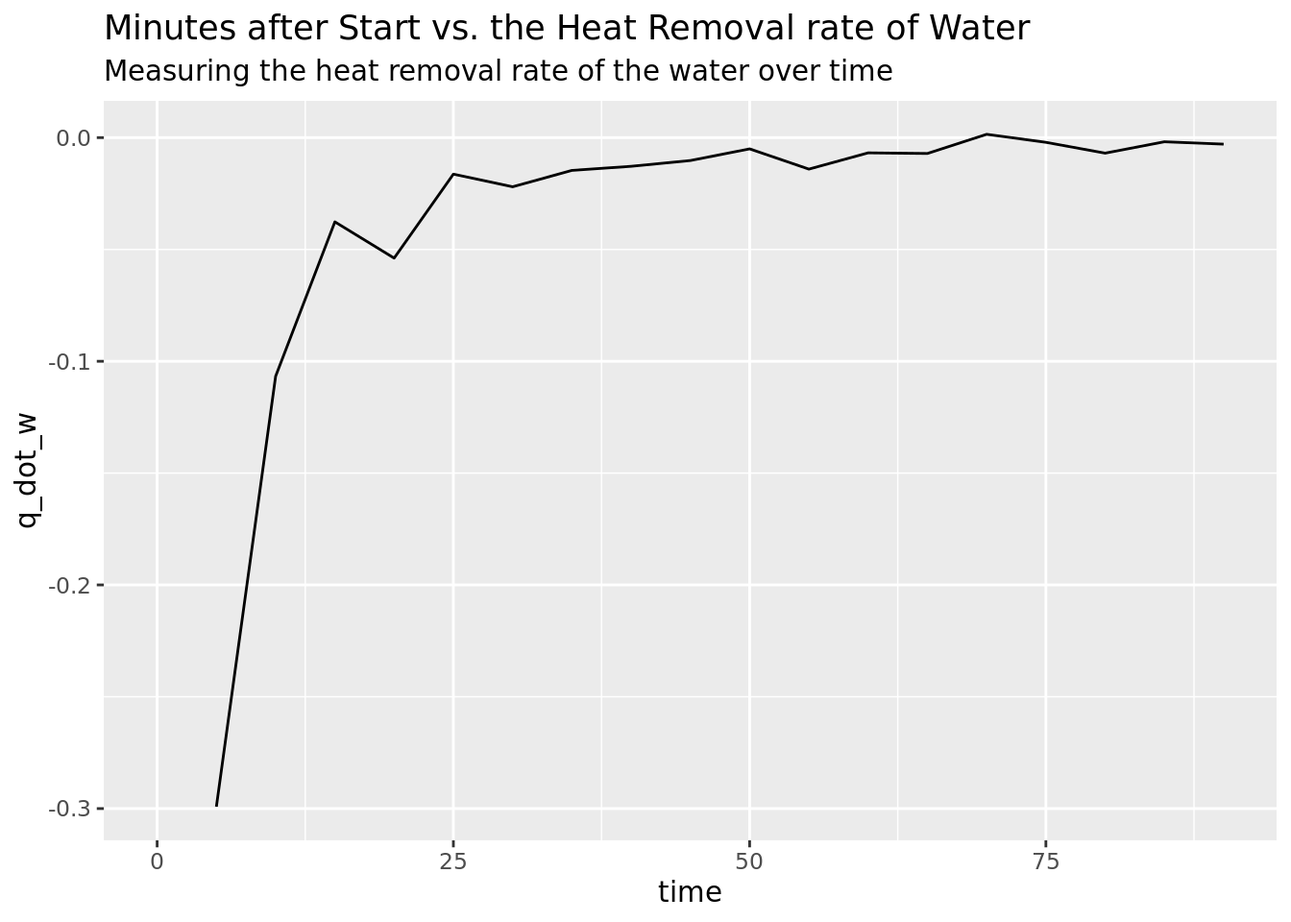
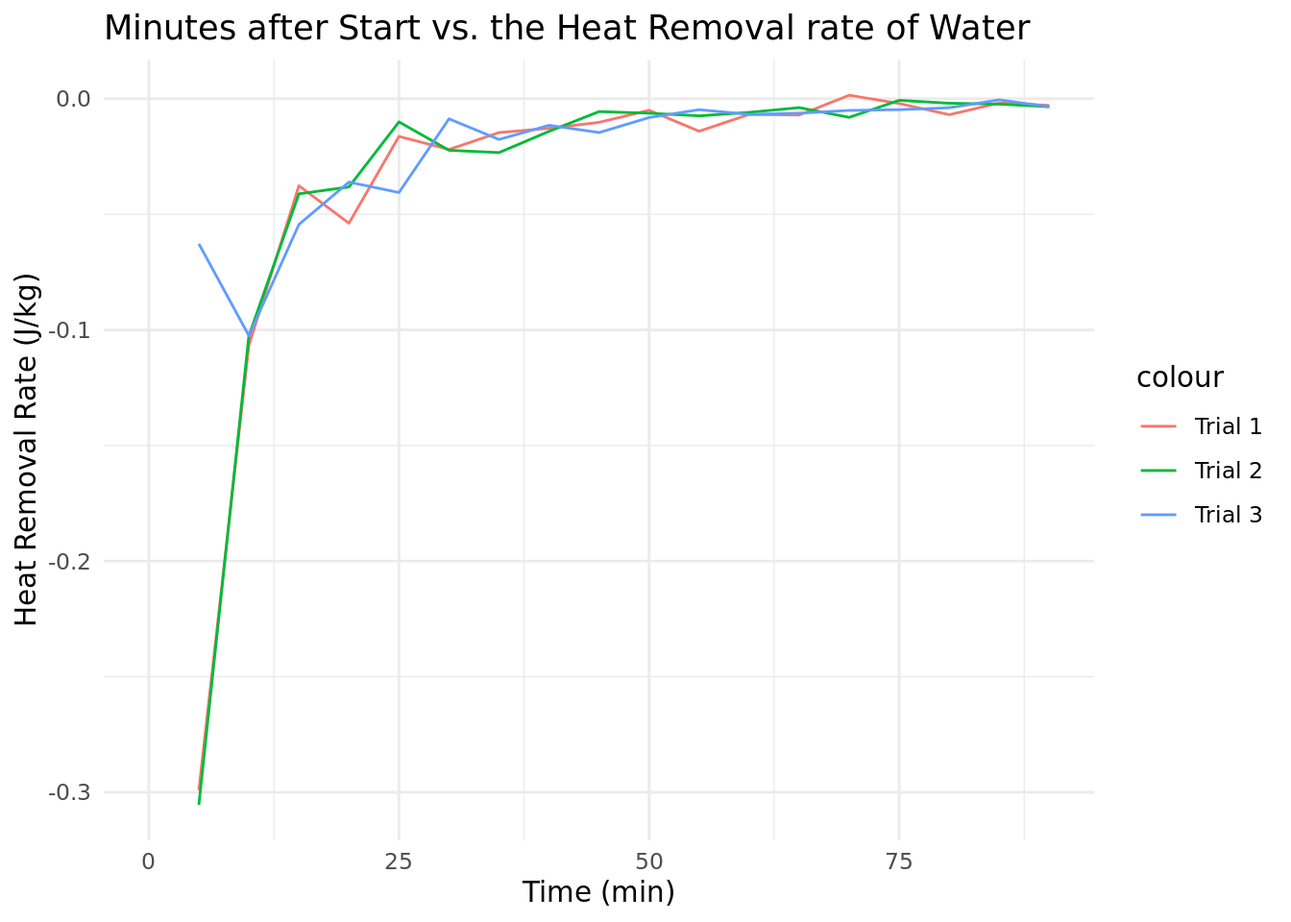
added updated data

diff --git a/thermo data analysis.html b/thermo data analysis.html
@@ -160,17 +160,54 @@ window.Quarto = {
 <span id="cb2-4"><a href="#cb2-4" aria-hidden="true" tabindex="-1"></a>  <span class="fu">rename</span>(<span class="at">time =</span> <span class="st">`</span><span class="at">Minutes after start</span><span class="st">`</span>)</span>
 <span id="cb2-5"><a href="#cb2-5" aria-hidden="true" tabindex="-1"></a>trial1 <span class="ot">&lt;-</span> <span class="fu">read_csv</span>(<span class="st">"trial1.csv"</span>, <span class="at">col_types =</span> <span class="fu">cols_only</span>(</span>
 <span id="cb2-6"><a href="#cb2-6" aria-hidden="true" tabindex="-1"></a>  <span class="st">`</span><span class="at">Minutes after start</span><span class="st">`</span> <span class="ot">=</span> <span class="fu">col_double</span>(), </span>
-<span id="cb2-7"><a href="#cb2-7" aria-hidden="true" tabindex="-1"></a>  <span class="st">`</span><span class="at">temp in fridge</span><span class="st">`</span> <span class="ot">=</span> <span class="fu">col_double</span>(),</span>
-<span id="cb2-8"><a href="#cb2-8" aria-hidden="true" tabindex="-1"></a>  <span class="st">`</span><span class="at">temp in water</span><span class="st">`</span> <span class="ot">=</span> <span class="fu">col_double</span>(),</span>
-<span id="cb2-9"><a href="#cb2-9" aria-hidden="true" tabindex="-1"></a>  <span class="st">`</span><span class="at">temp in air</span><span class="st">`</span> <span class="ot">=</span> <span class="fu">col_double</span>()), </span>
-<span id="cb2-10"><a href="#cb2-10" aria-hidden="true" tabindex="-1"></a>  <span class="at">show_col_types =</span> <span class="cn">FALSE</span>, </span>
-<span id="cb2-11"><a href="#cb2-11" aria-hidden="true" tabindex="-1"></a>  <span class="at">name_repair =</span> <span class="st">"unique_quiet"</span>) <span class="sc">|&gt;</span></span>
-<span id="cb2-12"><a href="#cb2-12" aria-hidden="true" tabindex="-1"></a>  <span class="fu">rename</span>(<span class="at">time =</span> <span class="st">`</span><span class="at">Minutes after start</span><span class="st">`</span>,</span>
-<span id="cb2-13"><a href="#cb2-13" aria-hidden="true" tabindex="-1"></a>         <span class="at">tfrid =</span> <span class="st">`</span><span class="at">temp in fridge</span><span class="st">`</span>,</span>
-<span id="cb2-14"><a href="#cb2-14" aria-hidden="true" tabindex="-1"></a>         <span class="at">tw =</span> <span class="st">`</span><span class="at">temp in water</span><span class="st">`</span>,</span>
-<span id="cb2-15"><a href="#cb2-15" aria-hidden="true" tabindex="-1"></a>         <span class="at">ta =</span> <span class="st">`</span><span class="at">temp in air</span><span class="st">`</span>)</span>
-<span id="cb2-16"><a href="#cb2-16" aria-hidden="true" tabindex="-1"></a></span>
-<span id="cb2-17"><a href="#cb2-17" aria-hidden="true" tabindex="-1"></a>baseline</span></code><button title="Copy to Clipboard" class="code-copy-button"><i class="bi"></i></button></pre></div>
+<span id="cb2-7"><a href="#cb2-7" aria-hidden="true" tabindex="-1"></a>  <span class="at">W =</span> <span class="fu">col_double</span>(),</span>
+<span id="cb2-8"><a href="#cb2-8" aria-hidden="true" tabindex="-1"></a>  <span class="st">`</span><span class="at">temp in fridge</span><span class="st">`</span> <span class="ot">=</span> <span class="fu">col_double</span>(),</span>
+<span id="cb2-9"><a href="#cb2-9" aria-hidden="true" tabindex="-1"></a>  <span class="st">`</span><span class="at">temp in water</span><span class="st">`</span> <span class="ot">=</span> <span class="fu">col_double</span>(),</span>
+<span id="cb2-10"><a href="#cb2-10" aria-hidden="true" tabindex="-1"></a>  <span class="st">`</span><span class="at">temp in air</span><span class="st">`</span> <span class="ot">=</span> <span class="fu">col_double</span>()), </span>
+<span id="cb2-11"><a href="#cb2-11" aria-hidden="true" tabindex="-1"></a>  <span class="at">show_col_types =</span> <span class="cn">FALSE</span>, </span>
+<span id="cb2-12"><a href="#cb2-12" aria-hidden="true" tabindex="-1"></a>  <span class="at">name_repair =</span> <span class="st">"unique_quiet"</span>) <span class="sc">|&gt;</span></span>
+<span id="cb2-13"><a href="#cb2-13" aria-hidden="true" tabindex="-1"></a>  <span class="fu">rename</span>(<span class="at">time =</span> <span class="st">`</span><span class="at">Minutes after start</span><span class="st">`</span>,</span>
+<span id="cb2-14"><a href="#cb2-14" aria-hidden="true" tabindex="-1"></a>         <span class="at">tfrid =</span> <span class="st">`</span><span class="at">temp in fridge</span><span class="st">`</span>,</span>
+<span id="cb2-15"><a href="#cb2-15" aria-hidden="true" tabindex="-1"></a>         <span class="at">tw =</span> <span class="st">`</span><span class="at">temp in water</span><span class="st">`</span>,</span>
+<span id="cb2-16"><a href="#cb2-16" aria-hidden="true" tabindex="-1"></a>         <span class="at">ta =</span> <span class="st">`</span><span class="at">temp in air</span><span class="st">`</span>)</span></code><button title="Copy to Clipboard" class="code-copy-button"><i class="bi"></i></button></pre></div>
+<div class="cell-output cell-output-stderr">
+<pre><code>Warning: One or more parsing issues, call `problems()` on your data frame for details,
+e.g.:
+  dat &lt;- vroom(...)
+  problems(dat)</code></pre>
+</div>
+<div class="sourceCode cell-code" id="cb4"><pre class="sourceCode r code-with-copy"><code class="sourceCode r"><span id="cb4-1"><a href="#cb4-1" aria-hidden="true" tabindex="-1"></a>trial2 <span class="ot">&lt;-</span> <span class="fu">read_csv</span>(<span class="st">"trial2.csv"</span>, <span class="at">col_types =</span> <span class="fu">cols_only</span>(</span>
+<span id="cb4-2"><a href="#cb4-2" aria-hidden="true" tabindex="-1"></a>  <span class="st">`</span><span class="at">Minutes after start</span><span class="st">`</span> <span class="ot">=</span> <span class="fu">col_double</span>(), </span>
+<span id="cb4-3"><a href="#cb4-3" aria-hidden="true" tabindex="-1"></a>  <span class="at">W =</span> <span class="fu">col_double</span>(),</span>
+<span id="cb4-4"><a href="#cb4-4" aria-hidden="true" tabindex="-1"></a>  <span class="st">`</span><span class="at">temp in fridge</span><span class="st">`</span> <span class="ot">=</span> <span class="fu">col_double</span>(),</span>
+<span id="cb4-5"><a href="#cb4-5" aria-hidden="true" tabindex="-1"></a>  <span class="st">`</span><span class="at">temp in water</span><span class="st">`</span> <span class="ot">=</span> <span class="fu">col_double</span>(),</span>
+<span id="cb4-6"><a href="#cb4-6" aria-hidden="true" tabindex="-1"></a>  <span class="st">`</span><span class="at">temp in air</span><span class="st">`</span> <span class="ot">=</span> <span class="fu">col_double</span>()), </span>
+<span id="cb4-7"><a href="#cb4-7" aria-hidden="true" tabindex="-1"></a>  <span class="at">show_col_types =</span> <span class="cn">FALSE</span>, </span>
+<span id="cb4-8"><a href="#cb4-8" aria-hidden="true" tabindex="-1"></a>  <span class="at">name_repair =</span> <span class="st">"unique_quiet"</span>) <span class="sc">|&gt;</span></span>
+<span id="cb4-9"><a href="#cb4-9" aria-hidden="true" tabindex="-1"></a>  <span class="fu">rename</span>(<span class="at">time =</span> <span class="st">`</span><span class="at">Minutes after start</span><span class="st">`</span>,</span>
+<span id="cb4-10"><a href="#cb4-10" aria-hidden="true" tabindex="-1"></a>         <span class="at">tfrid =</span> <span class="st">`</span><span class="at">temp in fridge</span><span class="st">`</span>,</span>
+<span id="cb4-11"><a href="#cb4-11" aria-hidden="true" tabindex="-1"></a>         <span class="at">tw =</span> <span class="st">`</span><span class="at">temp in water</span><span class="st">`</span>,</span>
+<span id="cb4-12"><a href="#cb4-12" aria-hidden="true" tabindex="-1"></a>         <span class="at">ta =</span> <span class="st">`</span><span class="at">temp in air</span><span class="st">`</span>)</span></code><button title="Copy to Clipboard" class="code-copy-button"><i class="bi"></i></button></pre></div>
+<div class="cell-output cell-output-stderr">
+<pre><code>Warning: One or more parsing issues, call `problems()` on your data frame for details,
+e.g.:
+  dat &lt;- vroom(...)
+  problems(dat)</code></pre>
+</div>
+<div class="sourceCode cell-code" id="cb6"><pre class="sourceCode r code-with-copy"><code class="sourceCode r"><span id="cb6-1"><a href="#cb6-1" aria-hidden="true" tabindex="-1"></a>trial3 <span class="ot">&lt;-</span> <span class="fu">read_csv</span>(<span class="st">"trial3.csv"</span>, <span class="at">col_types =</span> <span class="fu">cols_only</span>(</span>
+<span id="cb6-2"><a href="#cb6-2" aria-hidden="true" tabindex="-1"></a>  <span class="st">`</span><span class="at">Minutes after start</span><span class="st">`</span> <span class="ot">=</span> <span class="fu">col_double</span>(), </span>
+<span id="cb6-3"><a href="#cb6-3" aria-hidden="true" tabindex="-1"></a>  <span class="at">W =</span> <span class="fu">col_double</span>(),</span>
+<span id="cb6-4"><a href="#cb6-4" aria-hidden="true" tabindex="-1"></a>  <span class="st">`</span><span class="at">temp in fridge</span><span class="st">`</span> <span class="ot">=</span> <span class="fu">col_double</span>(),</span>
+<span id="cb6-5"><a href="#cb6-5" aria-hidden="true" tabindex="-1"></a>  <span class="st">`</span><span class="at">temp in water</span><span class="st">`</span> <span class="ot">=</span> <span class="fu">col_double</span>(),</span>
+<span id="cb6-6"><a href="#cb6-6" aria-hidden="true" tabindex="-1"></a>  <span class="st">`</span><span class="at">temp in air</span><span class="st">`</span> <span class="ot">=</span> <span class="fu">col_double</span>()), </span>
+<span id="cb6-7"><a href="#cb6-7" aria-hidden="true" tabindex="-1"></a>  <span class="at">show_col_types =</span> <span class="cn">FALSE</span>, </span>
+<span id="cb6-8"><a href="#cb6-8" aria-hidden="true" tabindex="-1"></a>  <span class="at">name_repair =</span> <span class="st">"unique_quiet"</span>) <span class="sc">|&gt;</span></span>
+<span id="cb6-9"><a href="#cb6-9" aria-hidden="true" tabindex="-1"></a>  <span class="fu">rename</span>(<span class="at">time =</span> <span class="st">`</span><span class="at">Minutes after start</span><span class="st">`</span>,</span>
+<span id="cb6-10"><a href="#cb6-10" aria-hidden="true" tabindex="-1"></a>         <span class="at">tfrid =</span> <span class="st">`</span><span class="at">temp in fridge</span><span class="st">`</span>,</span>
+<span id="cb6-11"><a href="#cb6-11" aria-hidden="true" tabindex="-1"></a>         <span class="at">tw =</span> <span class="st">`</span><span class="at">temp in water</span><span class="st">`</span>,</span>
+<span id="cb6-12"><a href="#cb6-12" aria-hidden="true" tabindex="-1"></a>         <span class="at">ta =</span> <span class="st">`</span><span class="at">temp in air</span><span class="st">`</span>)</span>
+<span id="cb6-13"><a href="#cb6-13" aria-hidden="true" tabindex="-1"></a></span>
+<span id="cb6-14"><a href="#cb6-14" aria-hidden="true" tabindex="-1"></a>baseline</span></code><button title="Copy to Clipboard" class="code-copy-button"><i class="bi"></i></button></pre></div>
 <div class="cell-output cell-output-stdout">
 <pre><code># A tibble: 16 × 5
     time volts   kwh    hz     W
@@ -198,9 +235,9 @@ window.Quarto = {
 <h2 class="anchored" data-anchor-id="cleaning-process">Cleaning Process</h2>
 <p>The team then cleaned out the dataset so it only reflected the moments where the compressor in the fridge was using power, rather than the total data collection time, as many values for work rate (power) are 0.</p>
 <div class="cell">
-<div class="sourceCode cell-code" id="cb4"><pre class="sourceCode r code-with-copy"><code class="sourceCode r"><span id="cb4-1"><a href="#cb4-1" aria-hidden="true" tabindex="-1"></a>baseline_filt <span class="ot">&lt;-</span> baseline <span class="sc">|&gt;</span></span>
-<span id="cb4-2"><a href="#cb4-2" aria-hidden="true" tabindex="-1"></a>  <span class="fu">filter</span>(<span class="st">`</span><span class="at">W</span><span class="st">`</span> <span class="sc">!=</span> <span class="dv">0</span>)</span>
-<span id="cb4-3"><a href="#cb4-3" aria-hidden="true" tabindex="-1"></a>baseline_filt</span></code><button title="Copy to Clipboard" class="code-copy-button"><i class="bi"></i></button></pre></div>
+<div class="sourceCode cell-code" id="cb8"><pre class="sourceCode r code-with-copy"><code class="sourceCode r"><span id="cb8-1"><a href="#cb8-1" aria-hidden="true" tabindex="-1"></a>baseline_filt <span class="ot">&lt;-</span> baseline <span class="sc">|&gt;</span></span>
+<span id="cb8-2"><a href="#cb8-2" aria-hidden="true" tabindex="-1"></a>  <span class="fu">filter</span>(<span class="st">`</span><span class="at">W</span><span class="st">`</span> <span class="sc">!=</span> <span class="dv">0</span>)</span>
+<span id="cb8-3"><a href="#cb8-3" aria-hidden="true" tabindex="-1"></a>baseline_filt</span></code><button title="Copy to Clipboard" class="code-copy-button"><i class="bi"></i></button></pre></div>
 <div class="cell-output cell-output-stdout">
 <pre><code># A tibble: 6 × 5
    time volts   kwh    hz     W
@@ -218,13 +255,13 @@ window.Quarto = {
 <h2 class="anchored" data-anchor-id="plotting-baseline-data">Plotting Baseline Data</h2>
 <p>Next, the team made two plots: minutes after start vs.&nbsp;W (work) and minutes after start vs.&nbsp;volts. <strong>Figure 1</strong> is the first plot.</p>
 <div class="cell">
-<div class="sourceCode cell-code" id="cb6"><pre class="sourceCode r code-with-copy"><code class="sourceCode r"><span id="cb6-1"><a href="#cb6-1" aria-hidden="true" tabindex="-1"></a><span class="fu">ggplot</span>(baseline_filt, <span class="fu">aes</span>(<span class="at">x =</span> time, <span class="at">y =</span> W)) <span class="sc">+</span></span>
-<span id="cb6-2"><a href="#cb6-2" aria-hidden="true" tabindex="-1"></a>  <span class="fu">geom_line</span>() <span class="sc">+</span></span>
-<span id="cb6-3"><a href="#cb6-3" aria-hidden="true" tabindex="-1"></a>  <span class="fu">geom_point</span>(<span class="at">color =</span> <span class="st">"red"</span>) <span class="sc">+</span></span>
-<span id="cb6-4"><a href="#cb6-4" aria-hidden="true" tabindex="-1"></a>  <span class="fu">labs</span>(<span class="at">title =</span> <span class="st">"Minutes after Start vs. the Power from the Wall Unit Over 90 Minutes"</span>,</span>
-<span id="cb6-5"><a href="#cb6-5" aria-hidden="true" tabindex="-1"></a>       <span class="at">subtitle =</span> <span class="st">"The power the compressor takes in in 5 minute bursts over time"</span>,</span>
-<span id="cb6-6"><a href="#cb6-6" aria-hidden="true" tabindex="-1"></a>       <span class="at">x_label =</span> <span class="st">"Time (min)"</span>, </span>
-<span id="cb6-7"><a href="#cb6-7" aria-hidden="true" tabindex="-1"></a>       <span class="at">y_lab =</span> <span class="st">"Power (Watts)"</span>)</span></code><button title="Copy to Clipboard" class="code-copy-button"><i class="bi"></i></button></pre></div>
+<div class="sourceCode cell-code" id="cb10"><pre class="sourceCode r code-with-copy"><code class="sourceCode r"><span id="cb10-1"><a href="#cb10-1" aria-hidden="true" tabindex="-1"></a><span class="fu">ggplot</span>(baseline_filt, <span class="fu">aes</span>(<span class="at">x =</span> time, <span class="at">y =</span> W)) <span class="sc">+</span></span>
+<span id="cb10-2"><a href="#cb10-2" aria-hidden="true" tabindex="-1"></a>  <span class="fu">geom_line</span>() <span class="sc">+</span></span>
+<span id="cb10-3"><a href="#cb10-3" aria-hidden="true" tabindex="-1"></a>  <span class="fu">geom_point</span>(<span class="at">color =</span> <span class="st">"red"</span>) <span class="sc">+</span></span>
+<span id="cb10-4"><a href="#cb10-4" aria-hidden="true" tabindex="-1"></a>  <span class="fu">labs</span>(<span class="at">title =</span> <span class="st">"Minutes after Start vs. the Power from the Wall Unit Over 90 Minutes"</span>,</span>
+<span id="cb10-5"><a href="#cb10-5" aria-hidden="true" tabindex="-1"></a>       <span class="at">subtitle =</span> <span class="st">"The power the compressor takes in in 5 minute bursts over time"</span>,</span>
+<span id="cb10-6"><a href="#cb10-6" aria-hidden="true" tabindex="-1"></a>       <span class="at">x_label =</span> <span class="st">"Time (min)"</span>, </span>
+<span id="cb10-7"><a href="#cb10-7" aria-hidden="true" tabindex="-1"></a>       <span class="at">y_lab =</span> <span class="st">"Power (Watts)"</span>)</span></code><button title="Copy to Clipboard" class="code-copy-button"><i class="bi"></i></button></pre></div>
 <div class="cell-output-display">
 <div>
 <figure class="figure">
@@ -239,14 +276,13 @@ window.Quarto = {
 <p>After a clear idea, the team placed a dish of water with the mass of <em>mass</em> to see the rate of heat transfer from water to the fridge. This variable will be called <span class="math display">\[\dot{Q_w}\]</span></p>
 <p>.Plotting this:</p>
 <div class="cell">
-<div class="sourceCode cell-code" id="cb7"><pre class="sourceCode r code-with-copy"><code class="sourceCode r"><span id="cb7-1"><a href="#cb7-1" aria-hidden="true" tabindex="-1"></a><span class="fu">ggplot</span>(trial1, <span class="fu">aes</span>(<span class="at">x =</span> <span class="st">`</span><span class="at">time</span><span class="st">`</span>)) <span class="sc">+</span></span>
-<span id="cb7-2"><a href="#cb7-2" aria-hidden="true" tabindex="-1"></a>  <span class="fu">geom_line</span>(<span class="fu">aes</span>(<span class="at">y =</span> <span class="st">`</span><span class="at">tfrid</span><span class="st">`</span>)) <span class="sc">+</span></span>
-<span id="cb7-3"><a href="#cb7-3" aria-hidden="true" tabindex="-1"></a>  <span class="fu">geom_line</span>(<span class="fu">aes</span>(<span class="at">y =</span> <span class="st">`</span><span class="at">tw</span><span class="st">`</span>)) <span class="sc">+</span></span>
-<span id="cb7-4"><a href="#cb7-4" aria-hidden="true" tabindex="-1"></a>  <span class="fu">geom_line</span>(<span class="fu">aes</span>(<span class="at">y =</span> <span class="st">`</span><span class="at">ta</span><span class="st">`</span>)) <span class="sc">+</span></span>
-<span id="cb7-5"><a href="#cb7-5" aria-hidden="true" tabindex="-1"></a>  <span class="fu">labs</span>(<span class="at">title =</span> <span class="st">"Minutes after Start vs. the Temperature"</span>,</span>
-<span id="cb7-6"><a href="#cb7-6" aria-hidden="true" tabindex="-1"></a>       <span class="at">subtitle =</span> <span class="st">"Measuring the temperature in air, water, and the fridge over time"</span>,</span>
-<span id="cb7-7"><a href="#cb7-7" aria-hidden="true" tabindex="-1"></a>       <span class="at">x_label =</span> <span class="st">"Time (min)"</span>, </span>
-<span id="cb7-8"><a href="#cb7-8" aria-hidden="true" tabindex="-1"></a>       <span class="at">y_lab =</span> <span class="st">"Temperature (Celsius)"</span>)</span></code><button title="Copy to Clipboard" class="code-copy-button"><i class="bi"></i></button></pre></div>
+<div class="sourceCode cell-code" id="cb11"><pre class="sourceCode r code-with-copy"><code class="sourceCode r"><span id="cb11-1"><a href="#cb11-1" aria-hidden="true" tabindex="-1"></a><span class="fu">ggplot</span>(trial1, <span class="fu">aes</span>(<span class="at">x =</span> <span class="st">`</span><span class="at">time</span><span class="st">`</span>)) <span class="sc">+</span></span>
+<span id="cb11-2"><a href="#cb11-2" aria-hidden="true" tabindex="-1"></a>  <span class="fu">geom_line</span>(<span class="fu">aes</span>(<span class="at">y =</span> <span class="st">`</span><span class="at">tfrid</span><span class="st">`</span>)) <span class="sc">+</span></span>
+<span id="cb11-3"><a href="#cb11-3" aria-hidden="true" tabindex="-1"></a>  <span class="fu">geom_line</span>(<span class="fu">aes</span>(<span class="at">y =</span> <span class="st">`</span><span class="at">tw</span><span class="st">`</span>)) <span class="sc">+</span></span>
+<span id="cb11-4"><a href="#cb11-4" aria-hidden="true" tabindex="-1"></a>  <span class="fu">geom_line</span>(<span class="fu">aes</span>(<span class="at">y =</span> <span class="st">`</span><span class="at">ta</span><span class="st">`</span>)) <span class="sc">+</span></span>
+<span id="cb11-5"><a href="#cb11-5" aria-hidden="true" tabindex="-1"></a>  <span class="fu">labs</span>(<span class="at">title =</span> <span class="st">"Minutes after Start vs. the Temperature"</span>,</span>
+<span id="cb11-6"><a href="#cb11-6" aria-hidden="true" tabindex="-1"></a>       <span class="at">x =</span> <span class="st">"Time (min)"</span>, </span>
+<span id="cb11-7"><a href="#cb11-7" aria-hidden="true" tabindex="-1"></a>       <span class="at">y =</span> <span class="st">"Temperature (Celsius)"</span>)</span></code><button title="Copy to Clipboard" class="code-copy-button"><i class="bi"></i></button></pre></div>
 <div class="cell-output-display">
 <div>
 <figure class="figure">
@@ -264,50 +300,111 @@ window.Quarto = {
 <p><span class="math display">\[
 m = V \times\rho_w
 \]</span></p>
-<p>Which in this case yields <span class="math display">\[m\]</span> = 0.00025 kg or 0.25 grams. We use this to find the heat lost from the water due to refrigeration, which will then be divided by the time taken, to find the heat removal rate. Below is the heat removal rate and the heat removed.</p>
+<p>Which in this case yields</p>
+<p><span class="math display">\[m\]</span> = 0.00025 kg or 0.25 grams. We use this to find the heat lost from the water due to refrigeration, which will then be divided by the time taken, to find the heat removal rate. Below is the heat removal rate and the heat removed.</p>
 <div class="cell">
-<div class="sourceCode cell-code" id="cb8"><pre class="sourceCode r code-with-copy"><code class="sourceCode r"><span id="cb8-1"><a href="#cb8-1" aria-hidden="true" tabindex="-1"></a>q_water <span class="ot">&lt;-</span> trial1 <span class="sc">|&gt;</span></span>
-<span id="cb8-2"><a href="#cb8-2" aria-hidden="true" tabindex="-1"></a>  <span class="fu">mutate</span>(<span class="at">q_w =</span> <span class="fl">0.00025</span> <span class="sc">*</span> (tw<span class="sc">-</span> <span class="fu">lag</span>(tw)) <span class="sc">*</span> <span class="dv">4184</span>) <span class="sc">|&gt;</span></span>
-<span id="cb8-3"><a href="#cb8-3" aria-hidden="true" tabindex="-1"></a>  <span class="fu">mutate</span>(<span class="at">q_dot_w =</span> q_w<span class="sc">/</span>time)</span>
-<span id="cb8-4"><a href="#cb8-4" aria-hidden="true" tabindex="-1"></a>q_water</span></code><button title="Copy to Clipboard" class="code-copy-button"><i class="bi"></i></button></pre></div>
+<div class="sourceCode cell-code" id="cb12"><pre class="sourceCode r code-with-copy"><code class="sourceCode r"><span id="cb12-1"><a href="#cb12-1" aria-hidden="true" tabindex="-1"></a>q_water_1 <span class="ot">&lt;-</span> trial1 <span class="sc">|&gt;</span></span>
+<span id="cb12-2"><a href="#cb12-2" aria-hidden="true" tabindex="-1"></a>  <span class="fu">mutate</span>(<span class="at">q_w =</span> <span class="fl">0.00025</span> <span class="sc">*</span> (tw<span class="sc">-</span> <span class="fu">lag</span>(tw)) <span class="sc">*</span> <span class="dv">4184</span>) <span class="sc">|&gt;</span></span>
+<span id="cb12-3"><a href="#cb12-3" aria-hidden="true" tabindex="-1"></a>  <span class="fu">mutate</span>(<span class="at">q_dot_w =</span> q_w<span class="sc">/</span>time)</span>
+<span id="cb12-4"><a href="#cb12-4" aria-hidden="true" tabindex="-1"></a>q_water_2 <span class="ot">&lt;-</span> trial2 <span class="sc">|&gt;</span></span>
+<span id="cb12-5"><a href="#cb12-5" aria-hidden="true" tabindex="-1"></a>  <span class="fu">mutate</span>(<span class="at">q_w =</span> <span class="fl">0.00025</span> <span class="sc">*</span> (tw<span class="sc">-</span> <span class="fu">lag</span>(tw)) <span class="sc">*</span> <span class="dv">4184</span>) <span class="sc">|&gt;</span></span>
+<span id="cb12-6"><a href="#cb12-6" aria-hidden="true" tabindex="-1"></a>  <span class="fu">mutate</span>(<span class="at">q_dot_w =</span> q_w<span class="sc">/</span>time)</span>
+<span id="cb12-7"><a href="#cb12-7" aria-hidden="true" tabindex="-1"></a>q_water_3 <span class="ot">&lt;-</span> trial3 <span class="sc">|&gt;</span></span>
+<span id="cb12-8"><a href="#cb12-8" aria-hidden="true" tabindex="-1"></a>  <span class="fu">mutate</span>(<span class="at">q_w =</span> <span class="fl">0.00025</span> <span class="sc">*</span> (tw<span class="sc">-</span> <span class="fu">lag</span>(tw)) <span class="sc">*</span> <span class="dv">4184</span>) <span class="sc">|&gt;</span></span>
+<span id="cb12-9"><a href="#cb12-9" aria-hidden="true" tabindex="-1"></a>  <span class="fu">mutate</span>(<span class="at">q_dot_w =</span> q_w<span class="sc">/</span>time)</span>
+<span id="cb12-10"><a href="#cb12-10" aria-hidden="true" tabindex="-1"></a>q_water_1</span></code><button title="Copy to Clipboard" class="code-copy-button"><i class="bi"></i></button></pre></div>
 <div class="cell-output cell-output-stdout">
-<pre><code># A tibble: 19 × 6
-    time tfrid    tw    ta    q_w  q_dot_w
-   &lt;dbl&gt; &lt;dbl&gt; &lt;dbl&gt; &lt;dbl&gt;  &lt;dbl&gt;    &lt;dbl&gt;
- 1     0 11.3   19.8  20   NA     NA      
- 2     5  9.55  18.3  19.9 -1.50  -0.299  
- 3    10  9.6   17.3  19.8 -1.07  -0.107  
- 4    15  9.65  16.8  19.9 -0.565 -0.0377 
- 5    20  9.45  15.7  20   -1.08  -0.0539 
- 6    25  8.96  15.3  19.9 -0.408 -0.0163 
- 7    30  9.11  14.7  20   -0.659 -0.0220 
- 8    35  9.4   14.2  19.8 -0.513 -0.0146 
- 9    40  9.11  13.7  20.1 -0.513 -0.0128 
-10    45  9.26  13.3  19.8 -0.460 -0.0102 
-11    50  9.11  13.0  19.8 -0.251 -0.00502
-12    55  8.96  12.3  20.0 -0.774 -0.0141 
-13    60  8.67  11.9  20.0 -0.408 -0.00680
-14    65  9.01  11.5  20   -0.460 -0.00708
-15    70  8.86  11.6  20.1  0.105  0.00149
-16    75  8.82  11.4  19.6 -0.157 -0.00209
-17    80  8.77  10.9  19.7 -0.554 -0.00693
-18    85  8.62  10.8  20.0 -0.157 -0.00185
-19    90  8.62  10.5  NA   -0.262 -0.00291</code></pre>
+<pre><code># A tibble: 19 × 7
+    time     W tfrid    tw    ta    q_w  q_dot_w
+   &lt;dbl&gt; &lt;dbl&gt; &lt;dbl&gt; &lt;dbl&gt; &lt;dbl&gt;  &lt;dbl&gt;    &lt;dbl&gt;
+ 1     0    NA 11.3   19.8  20   NA     NA      
+ 2     5    NA  9.55  18.3  19.9 -1.50  -0.299  
+ 3    10    NA  9.6   17.3  19.8 -1.07  -0.107  
+ 4    15    NA  9.65  16.8  19.9 -0.565 -0.0377 
+ 5    20    NA  9.45  15.7  20   -1.08  -0.0539 
+ 6    25    NA  8.96  15.3  19.9 -0.408 -0.0163 
+ 7    30    NA  9.11  14.7  20   -0.659 -0.0220 
+ 8    35    NA  9.4   14.2  19.8 -0.513 -0.0146 
+ 9    40    NA  9.11  13.7  20.1 -0.513 -0.0128 
+10    45    NA  9.26  13.3  19.8 -0.460 -0.0102 
+11    50    NA  9.11  13.0  19.8 -0.251 -0.00502
+12    55    NA  8.96  12.3  20.0 -0.774 -0.0141 
+13    60    NA  8.67  11.9  20.0 -0.408 -0.00680
+14    65    NA  9.01  11.5  20   -0.460 -0.00708
+15    70    NA  8.86  11.6  20.1  0.105  0.00149
+16    75    NA  8.82  11.4  19.6 -0.157 -0.00209
+17    80    NA  8.77  10.9  19.7 -0.554 -0.00693
+18    85    NA  8.62  10.8  20.0 -0.157 -0.00185
+19    90    NA  8.62  10.5  NA   -0.262 -0.00291</code></pre>
 </div>
 </div>
 <p>When this is graphed out:<br>
 </p>
 <div class="cell">
-<div class="sourceCode cell-code" id="cb10"><pre class="sourceCode r code-with-copy"><code class="sourceCode r"><span id="cb10-1"><a href="#cb10-1" aria-hidden="true" tabindex="-1"></a><span class="fu">ggplot</span>(q_water, <span class="fu">aes</span>(<span class="at">x =</span> time, <span class="at">y =</span> q_dot_w)) <span class="sc">+</span></span>
-<span id="cb10-2"><a href="#cb10-2" aria-hidden="true" tabindex="-1"></a>  <span class="fu">geom_line</span>() <span class="sc">+</span></span>
-<span id="cb10-3"><a href="#cb10-3" aria-hidden="true" tabindex="-1"></a>  <span class="fu">labs</span>(<span class="at">title =</span> <span class="st">"Minutes after Start vs. the Heat Removal rate of Water"</span>,</span>
-<span id="cb10-4"><a href="#cb10-4" aria-hidden="true" tabindex="-1"></a>       <span class="at">subtitle =</span> <span class="st">"Measuring the heat removal rate of the water over time"</span>,</span>
-<span id="cb10-5"><a href="#cb10-5" aria-hidden="true" tabindex="-1"></a>       <span class="at">x_label =</span> <span class="st">"Time (min)"</span>, </span>
-<span id="cb10-6"><a href="#cb10-6" aria-hidden="true" tabindex="-1"></a>       <span class="at">y_lab =</span> <span class="st">" Q dot (J/kg)"</span>)</span></code><button title="Copy to Clipboard" class="code-copy-button"><i class="bi"></i></button></pre></div>
+<div class="sourceCode cell-code" id="cb14"><pre class="sourceCode r code-with-copy"><code class="sourceCode r"><span id="cb14-1"><a href="#cb14-1" aria-hidden="true" tabindex="-1"></a><span class="fu">ggplot</span>() <span class="sc">+</span></span>
+<span id="cb14-2"><a href="#cb14-2" aria-hidden="true" tabindex="-1"></a>  <span class="fu">geom_line</span>(<span class="at">data =</span> q_water_1, <span class="fu">aes</span>(<span class="at">x =</span> time, <span class="at">y =</span> q_dot_w, <span class="at">color =</span> <span class="st">"Trial 1"</span>)) <span class="sc">+</span></span>
+<span id="cb14-3"><a href="#cb14-3" aria-hidden="true" tabindex="-1"></a>  <span class="fu">geom_line</span>(<span class="at">data =</span> q_water_2, <span class="fu">aes</span>(<span class="at">x =</span> time, <span class="at">y =</span> q_dot_w, <span class="at">color =</span> <span class="st">"Trial 2"</span>)) <span class="sc">+</span></span>
+<span id="cb14-4"><a href="#cb14-4" aria-hidden="true" tabindex="-1"></a>  <span class="fu">geom_line</span>(<span class="at">data =</span> q_water_3, <span class="fu">aes</span>(<span class="at">x =</span> time, <span class="at">y =</span> q_dot_w, <span class="at">color =</span> <span class="st">"Trial 3"</span>)) <span class="sc">+</span></span>
+<span id="cb14-5"><a href="#cb14-5" aria-hidden="true" tabindex="-1"></a>  <span class="fu">labs</span>(<span class="at">title =</span> <span class="st">"Minutes after Start vs. the Heat Removal rate of Water"</span>,</span>
+<span id="cb14-6"><a href="#cb14-6" aria-hidden="true" tabindex="-1"></a>       <span class="at">x =</span> <span class="st">"Time (min)"</span>, </span>
+<span id="cb14-7"><a href="#cb14-7" aria-hidden="true" tabindex="-1"></a>       <span class="at">y =</span> <span class="st">"Heat Removal Rate (J/kg)"</span>) <span class="sc">+</span></span>
+<span id="cb14-8"><a href="#cb14-8" aria-hidden="true" tabindex="-1"></a>  <span class="fu">theme_minimal</span>()</span></code><button title="Copy to Clipboard" class="code-copy-button"><i class="bi"></i></button></pre></div>
 <div class="cell-output-display">
 <div>
 <figure class="figure">
 <p><img src="thermo-data-analysis_files/figure-html/graphed-q-dot-1.png" class="img-fluid figure-img" width="672"></p>
+</figure>
+</div>
+</div>
+</div>
+<p>Doing something similar for the fridge temperature, we find the <span class="math display">\[\dot{Q}\]</span> into the air using the specific heat value of dry air, assuming that there is only dry air in the fridge. We use the same formula as above, and the same mass flow rate, due to conservation of mass and mass flow rate.</p>
+<div class="cell">
+<div class="sourceCode cell-code" id="cb15"><pre class="sourceCode r code-with-copy"><code class="sourceCode r"><span id="cb15-1"><a href="#cb15-1" aria-hidden="true" tabindex="-1"></a>q_dot_frid1 <span class="ot">&lt;-</span> trial1 <span class="sc">|&gt;</span></span>
+<span id="cb15-2"><a href="#cb15-2" aria-hidden="true" tabindex="-1"></a>  <span class="fu">mutate</span>(<span class="at">q_f =</span> <span class="fl">0.00025</span> <span class="sc">*</span> (tfrid <span class="sc">-</span> <span class="fu">lag</span>(tfrid)) <span class="sc">*</span> <span class="dv">1005</span>) <span class="sc">|&gt;</span></span>
+<span id="cb15-3"><a href="#cb15-3" aria-hidden="true" tabindex="-1"></a>  <span class="fu">mutate</span>(<span class="at">q_dot_f =</span> q_f<span class="sc">/</span>time)</span>
+<span id="cb15-4"><a href="#cb15-4" aria-hidden="true" tabindex="-1"></a>q_dot_frid2 <span class="ot">&lt;-</span> trial2 <span class="sc">|&gt;</span></span>
+<span id="cb15-5"><a href="#cb15-5" aria-hidden="true" tabindex="-1"></a>  <span class="fu">mutate</span>(<span class="at">q_f =</span> <span class="fl">0.00025</span> <span class="sc">*</span> (tfrid <span class="sc">-</span> <span class="fu">lag</span>(tfrid)) <span class="sc">*</span> <span class="dv">1005</span>) <span class="sc">|&gt;</span></span>
+<span id="cb15-6"><a href="#cb15-6" aria-hidden="true" tabindex="-1"></a>  <span class="fu">mutate</span>(<span class="at">q_dot_f =</span> q_f<span class="sc">/</span>time)</span>
+<span id="cb15-7"><a href="#cb15-7" aria-hidden="true" tabindex="-1"></a>q_dot_frid3 <span class="ot">&lt;-</span> trial3 <span class="sc">|&gt;</span></span>
+<span id="cb15-8"><a href="#cb15-8" aria-hidden="true" tabindex="-1"></a>  <span class="fu">mutate</span>(<span class="at">q_f =</span> <span class="fl">0.00025</span> <span class="sc">*</span> (tfrid <span class="sc">-</span> <span class="fu">lag</span>(tfrid)) <span class="sc">*</span> <span class="dv">1005</span>) <span class="sc">|&gt;</span></span>
+<span id="cb15-9"><a href="#cb15-9" aria-hidden="true" tabindex="-1"></a>  <span class="fu">mutate</span>(<span class="at">q_dot_f =</span> q_f<span class="sc">/</span>time)</span>
+<span id="cb15-10"><a href="#cb15-10" aria-hidden="true" tabindex="-1"></a>q_dot_frid1</span></code><button title="Copy to Clipboard" class="code-copy-button"><i class="bi"></i></button></pre></div>
+<div class="cell-output cell-output-stdout">
+<pre><code># A tibble: 19 × 7
+    time     W tfrid    tw    ta     q_f   q_dot_f
+   &lt;dbl&gt; &lt;dbl&gt; &lt;dbl&gt; &lt;dbl&gt; &lt;dbl&gt;   &lt;dbl&gt;     &lt;dbl&gt;
+ 1     0    NA 11.3   19.8  20   NA      NA       
+ 2     5    NA  9.55  18.3  19.9 -0.450  -0.0899  
+ 3    10    NA  9.6   17.3  19.8  0.0126  0.00126 
+ 4    15    NA  9.65  16.8  19.9  0.0126  0.000838
+ 5    20    NA  9.45  15.7  20   -0.0503 -0.00251 
+ 6    25    NA  8.96  15.3  19.9 -0.123  -0.00492 
+ 7    30    NA  9.11  14.7  20    0.0377  0.00126 
+ 8    35    NA  9.4   14.2  19.8  0.0729  0.00208 
+ 9    40    NA  9.11  13.7  20.1 -0.0729 -0.00182 
+10    45    NA  9.26  13.3  19.8  0.0377  0.000838
+11    50    NA  9.11  13.0  19.8 -0.0377 -0.000754
+12    55    NA  8.96  12.3  20.0 -0.0377 -0.000685
+13    60    NA  8.67  11.9  20.0 -0.0729 -0.00121 
+14    65    NA  9.01  11.5  20    0.0854  0.00131 
+15    70    NA  8.86  11.6  20.1 -0.0377 -0.000538
+16    75    NA  8.82  11.4  19.6 -0.0100 -0.000134
+17    80    NA  8.77  10.9  19.7 -0.0126 -0.000157
+18    85    NA  8.62  10.8  20.0 -0.0377 -0.000443
+19    90    NA  8.62  10.5  NA    0       0       </code></pre>
+</div>
+</div>
+<p>Plotted this out:</p>
+<div class="cell">
+<div class="sourceCode cell-code" id="cb17"><pre class="sourceCode r code-with-copy"><code class="sourceCode r"><span id="cb17-1"><a href="#cb17-1" aria-hidden="true" tabindex="-1"></a><span class="fu">ggplot</span>(q_dot_frid1, <span class="fu">aes</span>(<span class="at">x =</span> time, <span class="at">y =</span> q_dot_f)) <span class="sc">+</span></span>
+<span id="cb17-2"><a href="#cb17-2" aria-hidden="true" tabindex="-1"></a>  <span class="fu">geom_line</span>() <span class="sc">+</span></span>
+<span id="cb17-3"><a href="#cb17-3" aria-hidden="true" tabindex="-1"></a>  <span class="fu">labs</span>(<span class="at">title =</span> <span class="st">"Minutes after Start vs. the Heat Removal rate of Water"</span>,</span>
+<span id="cb17-4"><a href="#cb17-4" aria-hidden="true" tabindex="-1"></a>       <span class="at">x =</span> <span class="st">"Time (min)"</span>, </span>
+<span id="cb17-5"><a href="#cb17-5" aria-hidden="true" tabindex="-1"></a>       <span class="at">y =</span> <span class="st">"Heat Removal Rate (J/kg)"</span>)</span></code><button title="Copy to Clipboard" class="code-copy-button"><i class="bi"></i></button></pre></div>
+<div class="cell-output-display">
+<div>
+<figure class="figure">
+<p><img src="thermo-data-analysis_files/figure-html/graphed-frid-q-dot-1.png" class="img-fluid figure-img" width="672"></p>
 </figure>
 </div>
 </div>
